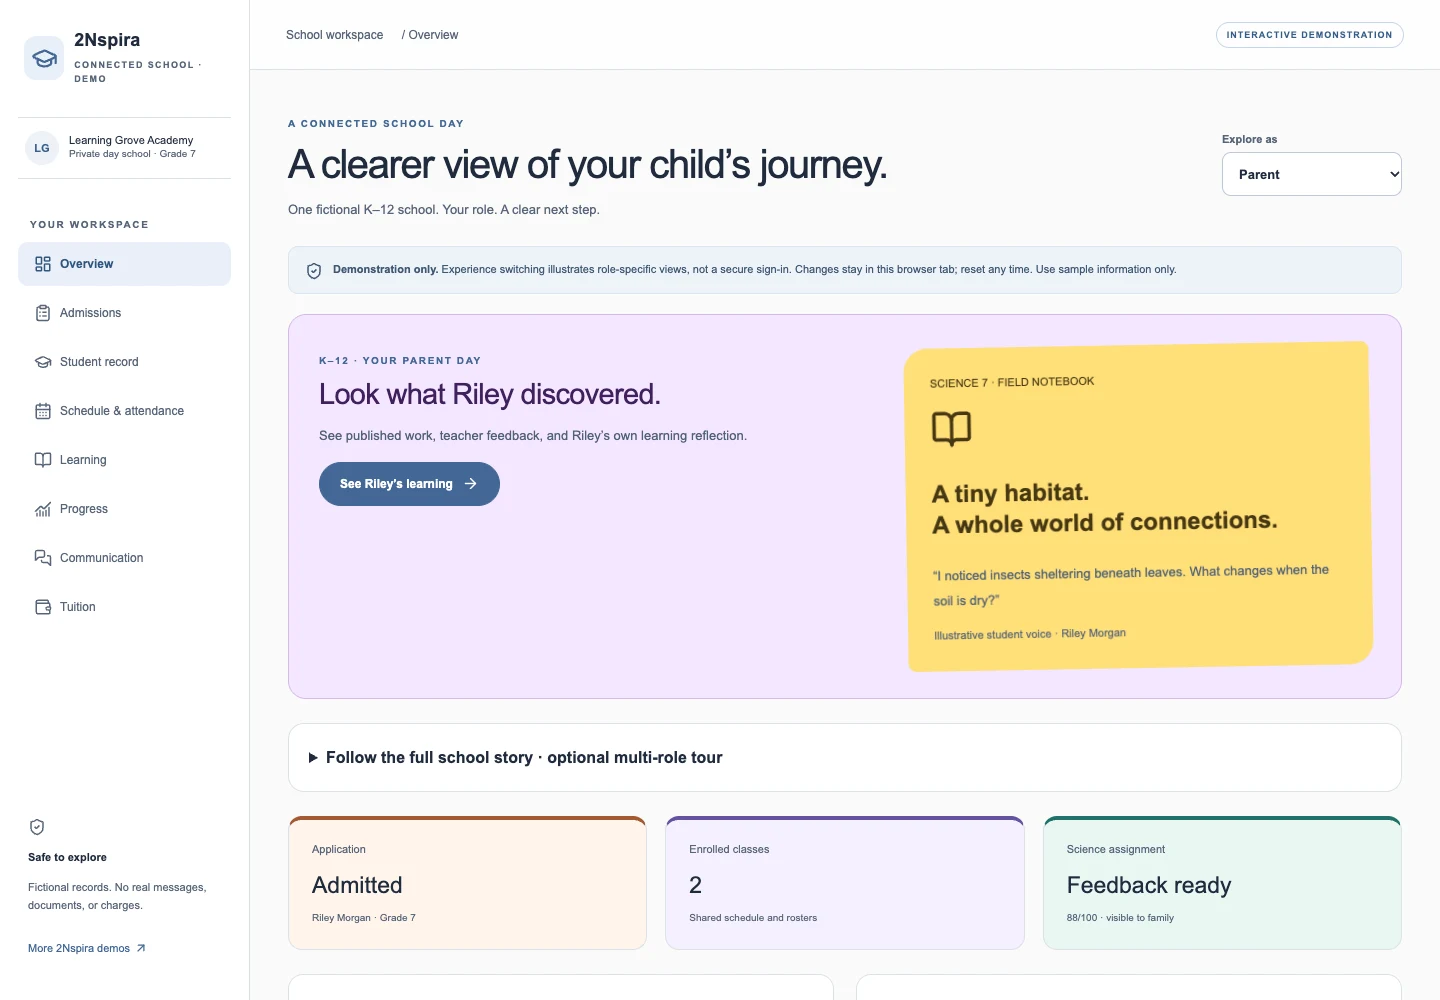
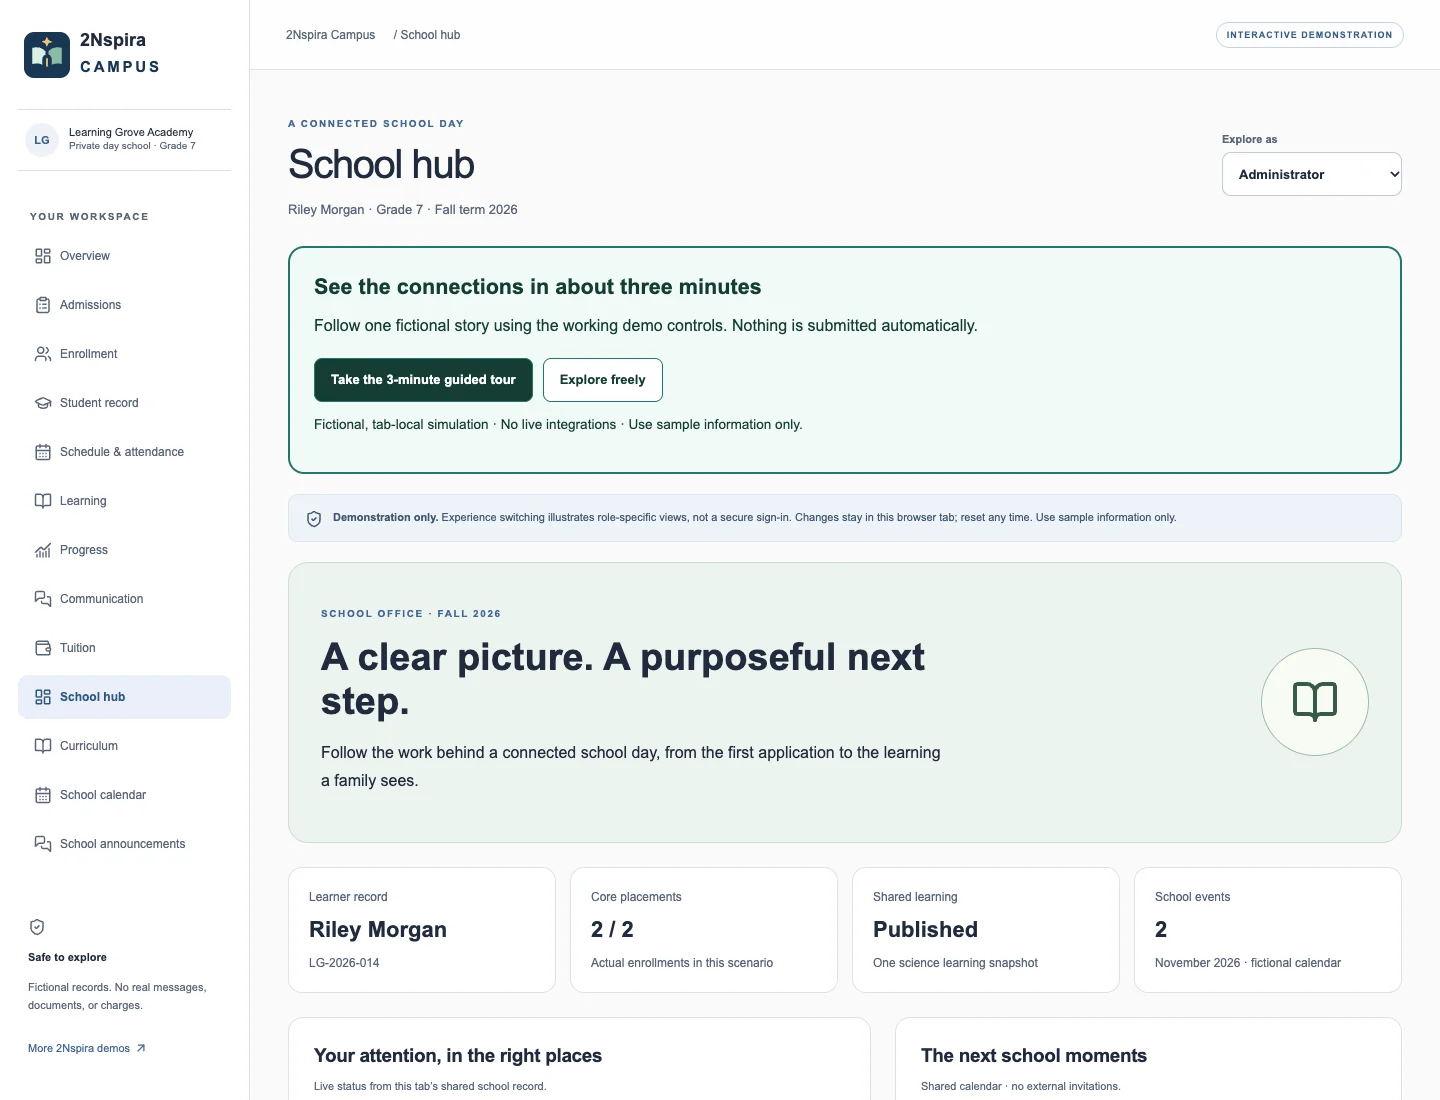
Introduce 2Nspira Campus product identity and connected office showcase

diff --git a/2nspira-website/src/components/demos/SchoolVision.tsx b/2nspira-website/src/components/demos/SchoolVision.tsx
@@ -6,7 +6,7 @@ export default function SchoolVision() {
   return <><section className="border-y border-line bg-[#e7f4ef] py-12 sm:py-14" aria-labelledby="school-vision">
     <div className="mx-auto max-w-6xl px-4 sm:px-6">
       <div className="grid items-center gap-10 lg:grid-cols-2">
-        <div><p className={eyebrow}>2Nspira · Connected school</p><h2 id="school-vision" className={`mt-4 ${h2}`}>More than managing school.<br />Make learning visible.</h2><p className="mt-5 leading-8 text-body">The office knows the learner. The teacher knows the next step. The family understands the progress. Explore a school experience built around those connections—not another collection of disconnected tools.</p><p className="mt-4 text-sm leading-7 text-muted">A focused demonstration for independent K–12 schools, with a broader vision shaped around your curriculum, people, and existing systems.</p><a href={EDUCATION_DEMO_URL} className={`mt-7 ${buttonPrimary}`}>Explore Demo <ArrowRight className="ml-2 h-4 w-4" /></a></div>
+        <div><p className={eyebrow}>2Nspira Campus · Connected school</p><h2 id="school-vision" className={`mt-4 ${h2}`}>More than managing school.<br />Make learning visible.</h2><p className="mt-5 leading-8 text-body">The office knows the learner. The teacher knows the next step. The family understands the progress. Explore a school experience built around those connections—not another collection of disconnected tools.</p><p className="mt-4 text-sm leading-7 text-muted">A focused demonstration for independent K–12 schools, with a broader vision shaped around your curriculum, people, and existing systems.</p><a href={EDUCATION_DEMO_URL} className={`mt-7 ${buttonPrimary}`}>Explore Demo <ArrowRight className="ml-2 h-4 w-4" /></a></div>
         <div data-catalog-card className="rounded-3xl border border-line bg-white p-6 shadow-sm sm:p-8">
           <p className="text-xs font-semibold tracking-widest text-accent">ILLUSTRATIVE LEARNING SNAPSHOT</p><div className="mt-5 flex items-center gap-4"><span className="rounded-2xl bg-accent-soft p-3 text-accent"><Sprout size={28}/></span><div><h3 className="text-xl font-medium text-ink">Small habitats. Big connections.</h3><p className="mt-1 text-sm text-muted">Science 7 · Learning Grove Academy</p></div></div>
           <ol className="mt-7 space-y-0">{[["Plan with purpose", "An inquiry question and clear learning goals."],["Make thinking visible", "Field notes become evidence of learning."],["Close the feedback loop", "Teacher-published feedback reaches the learner and family."]].map(([title,text],i)=><li key={title} className="flex gap-4 border-t border-line py-5"><span className="text-sm font-semibold text-accent">0{i+1}</span><div><h4 className="font-medium text-ink">{title}</h4><p className="mt-1 text-sm leading-6 text-body">{text}</p></div></li>)}</ol><p className="text-xs leading-6 text-muted">Fictional example. The demo connects real local actions; this preview is not live school data.</p>

diff --git a/2nspira-website/src/components/demos/SchoolModules.tsx b/2nspira-website/src/components/demos/SchoolModules.tsx
@@ -6,6 +6,8 @@ const groups = [
     icon: GraduationCap,
     description: "One record from first enquiry to the school day.",
     modules: [
+      ["Administrator school hub", "Follow live scenario priorities, core placements, shared learning, school events, and recent activity.", "Try in demo"],
+      ["School calendar", "Create a November sample event, check same-time conflicts, and confirm removal across all demo views.", "Try in demo"],
       [
         "Registration & admissions",
         "Capture student and guardian details, review sample documents, and track admission.",
@@ -40,8 +42,8 @@ const groups = [
     modules: [
       [
         "Unit & lesson planning",
-        "Browse a three-step inquiry unit, learning intentions, and access strategies.",
-        "Read-only preview",
+        "Edit one Science 7 unit draft, cancel changes, then explicitly publish the plan to learner and family views.",
+        "Try in demo",
       ],
       [
         "Coursework & assignments",
@@ -70,6 +72,7 @@ const groups = [
     icon: Users,
     description: "Make progress easier to understand and act on.",
     modules: [
+      ["School announcements", "Publish all-school, family, or staff updates and verify the matching role’s noticeboard. No notification is sent.", "Try in demo"],
       [
         "Family progress view",
         "Follow a child’s learning evidence and teacher-published feedback.",
@@ -77,7 +80,7 @@ const groups = [
       ],
       [
         "School communication",
-        "Explore announcements and a shared fictional school conversation. Nothing is sent.",
+        "Explore a shared fictional school conversation. No external message is sent.",
         "Try in demo",
       ],
       [
@@ -99,12 +102,15 @@ const groups = [
   },
 ];
 const destinations: Record<string, [string, string]> = {
+  "Administrator school hub": ["Administrator", "School hub"],
+  "School calendar": ["Administrator", "School calendar"],
+  "School announcements": ["Administrator", "School announcements"],
   "Registration & admissions": ["Administrator", "Admissions"],
   "Enrollment & class capacity": ["Administrator", "Enrollment"],
   "Student & guardian records": ["Administrator", "Student record"],
   "Scheduling & attendance": ["Teacher", "Schedule & attendance"],
   "Tuition & payment status": ["Parent", "Tuition"],
-  "Unit & lesson planning": ["Teacher", "Learning"],
+  "Unit & lesson planning": ["Teacher", "Curriculum"],
   "Coursework & assignments": ["Teacher", "Learning"],
   "Assessment & feedback": ["Teacher", "Learning"],
   "Portfolio & student reflection": ["Student", "Learning"],

diff --git a/2nspira-website/src/components/demos/DemoDetail.tsx b/2nspira-website/src/components/demos/DemoDetail.tsx
@@ -18,11 +18,12 @@ export default function DemoDetail({ kind }: { kind: keyof typeof demos }) {
   return (
     <main id="main-content" tabIndex={-1} className={pageMain}>
       <DemoHero
-        category="K–12 school management"
-        title="One learning journey. Everyone connected."
+        category="Connected K–12 school management"
+        brand={{src:"/images/brand/2nspira-campus-logo.svg",alt:"2Nspira Campus — Learning opens possibilities."}}
+        title="Learning opens possibilities."
         text="Give teachers room to teach and families a clearer view. Connect the first application to classroom progress, without losing the learner between systems."
         image="/images/demos/education-workspace.webp"
-        alt="Learning Grove family view showing classroom learning, enrolled classes and published teacher feedback."
+        alt="2Nspira Campus administrator school hub showing fictional learner priorities, curriculum status and school events."
         href={demo.url}
         steps={["Welcome a learner", "Connect the classroom", "Share progress"]}
       />
@@ -43,7 +44,7 @@ export default function DemoDetail({ kind }: { kind: keyof typeof demos }) {
               {[
                 [
                   "Administrator",
-                  "Review, admit, enroll, and follow the record.",
+                  "Review priorities, publish curriculum, and connect the school day.",
                 ],
                 [
                   "Teacher",
@@ -60,14 +61,14 @@ export default function DemoDetail({ kind }: { kind: keyof typeof demos }) {
               ].map(([role, text], i) => (
                 <a
                   data-catalog-card
-                  href={`${demo.url}?role=${role}`}
+                  href={`${demo.url}?role=${role}${role === "Administrator" ? "&section=School%20hub" : ""}`}
                   key={role}
                   className={`${cardFlat} block p-6 focus-visible:outline-2 focus-visible:outline-accent ${["!bg-[#fff0d9]", "!bg-[#e0f4ef]", "!bg-[#efe4fa]", "!bg-[#fff1b8]"][i]}`}
                 >
                   <h3 className="font-semibold text-ink">
                     {
                       {
-                        Administrator: "School office · Review admissions",
+                        Administrator: "School office · Open school hub",
                         Teacher: "Teacher · Open my classroom",
                         Student: "Student · Continue my learning",
                         Parent: "Family · See Riley’s learning",

diff --git a/2nspira-website/src/app/demos/education/page.tsx b/2nspira-website/src/app/demos/education/page.tsx
@@ -2,10 +2,10 @@ import DemoSchema from "@/components/demos/DemoSchema";
 import DemoDetail from "@/components/demos/DemoDetail";
 import { publicPageMetadata } from "@/lib/pageMetadata";
 export const metadata = publicPageMetadata({
-  title: "School Management & Learning Platform Demo",
-  shareTitle: "One learning journey. Everyone connected.",
+  title: "2Nspira Campus — School & Learning Demo",
+  shareTitle: "2Nspira Campus — Learning opens possibilities.",
   description:
-    "Explore a connected K–12 school demo: admissions, attendance, learning plans, assignments, student evidence, and family-visible feedback in one shared journey.",
+    "Explore 2Nspira Campus: connected school-office priorities, curriculum publishing, calendars, announcements, classroom learning, and family-visible feedback.",
   path: "/demos/education",
   image: "/images/demos/education-workspace.webp",
 });
@@ -14,8 +14,8 @@ export default function EducationDemo() {
     <>
       <DemoSchema
         path="/demos/education"
-        title="School Management & Learning Platform Demo"
-        description="Explore admissions, classroom learning and family-visible feedback in a connected school experience."
+        title="2Nspira Campus — School & Learning Demo"
+        description="Explore 2Nspira Campus with connected school-office workflows, curriculum, classroom learning and family-visible feedback."
         image="/images/demos/education-workspace.webp"
       />
       <DemoDetail kind="education" />

diff --git a/2nspira-website/src/lib/demos.ts b/2nspira-website/src/lib/demos.ts
@@ -5,10 +5,10 @@ export const PROPERTY_DEMO_URL = "https://harborstone-property-operations-demo.j
 export const demos = {
   education: {
     category: "Education",
-    title: "School Management & Learning Platform",
-    headline: "A connected school. A visible learning journey.",
+    title: "2Nspira Campus",
+    headline: "Learning opens possibilities.",
     intro:
-      "Bring admissions, school operations, and meaningful learning into one connected experience. Follow a learner from the first application to classroom evidence and family-visible feedback—without entering the same information again.",
+      "2Nspira Campus brings admissions, school operations, and meaningful learning into one connected experience. Follow a learner from the first application to classroom evidence and family-visible feedback—without entering the same information again.",
     audience:
       "For small private K–12 day schools evaluating a connected admissions, student-management, and learning experience. This example follows one Grade 7 learner at a fictional school.",
     challenge:
@@ -36,7 +36,7 @@ export const demos = {
       ],
       [
         "Progress & communication",
-        "See published feedback and attendance, browse sample announcements, and add a simulated school-support message.",
+        "See published feedback and attendance, publish audience-specific announcements, and add a simulated school-support message.",
       ],
       [
         "Illustrative tuition",

diff --git a/2nspira-website/src/components/demos/DemoHero.tsx b/2nspira-website/src/components/demos/DemoHero.tsx
@@ -12,6 +12,7 @@ export default function DemoHero({
   href,
   steps,
   overview = false,
+  brand,
 }: {
   category: string;
   title: string;
@@ -21,6 +22,7 @@ export default function DemoHero({
   href: string;
   steps: string[];
   overview?: boolean;
+  brand?: {src:string;alt:string};
 }) {
   return (
     <section className="demo-hero relative overflow-hidden border-b border-line">
@@ -35,6 +37,7 @@ export default function DemoHero({
         )}
         <div className="grid items-center gap-10 py-6 lg:grid-cols-[0.9fr_1.1fr] lg:gap-12 lg:py-10">
           <div className="demo-arrive min-w-0">
+            {brand && <Image src={brand.src} alt={brand.alt} width={620} height={160} unoptimized className="mb-7 h-auto w-full max-w-[360px]" />}
             <p className={eyebrow}>{category}</p>
             <h1 className={`${h1} max-w-2xl`}>{title}</h1>
             <p className="mt-6 max-w-xl text-lg leading-8 text-body">{text}</p>

diff --git a/2nspira-website/src/components/engagement/DemoCollection.tsx b/2nspira-website/src/components/engagement/DemoCollection.tsx
@@ -10,10 +10,10 @@ const experiences = [
   {
     slug: "education",
     category: "Education",
-    title: "More room for the moments that matter.",
-    text: "From a family’s first application to a teacher’s published feedback. One connected learning journey.",
+    title: "2Nspira Campus",
+    text: "Learning opens possibilities. Connect school-office priorities, curriculum, classroom evidence, and the family’s view in one working demonstration.",
     image: "education-workspace",
-    alt: "Learning Grove school family overview with classroom learning and published feedback.",
+    alt: "2Nspira Campus administrator school hub with fictional school priorities, curriculum status and shared events.",
     url: demos.education.url,
     steps: "Admissions → Classroom → Family",
   },

diff --git a/docs/CAMPUS-IDENTITY-20261118.md b/docs/CAMPUS-IDENTITY-20261118.md
@@ -1,0 +1,34 @@
+# 2Nspira Campus showcase identity — 18 November 2026
+
+Jeffrey selected **2Nspira Campus** and requested an original, meaningful logo.
+The vector book/doorway/path/spark identity and **Learning opens possibilities.**
+line are shared with the education demo repository. Learning Grove Academy
+remains the fictional school. No trademark-registration, security-certification,
+production-readiness, client-result, or feature-parity claim is made.
+
+## Changes
+
+Education metadata/schema, dedicated showcase hero, demos collection title,
+matching vector logo and mark, and an actual screenshot from the newly branded
+administrator hub. Administrator launches now enter School hub; Curriculum,
+School calendar, School announcements and hub module links point to working
+role/section routes. One-unit planning is correctly labeled a working simulation,
+not a read-only preview. Other industry demos and original client systems unchanged.
+
+## Local validation
+
+Clean install; lint passes with only four existing ai-team image warnings;
+canonical build:ci including built-Worker 200 route smoke and unknown-route 404;
+strict TypeScript; npm audit zero findings. Built Worker localhost:3057:
+36 rendered checks across desktop/tablet/mobile covering logo/image loads,
+metadata, four module links and role/section parameters, planning status,
+JSON-LD parsing, no overflow or page errors, and Campus card in /demos.
+Hero screenshots inspected separately; no static HTML-only visual PASS.
+
+## Release ownership
+
+Main marketing Worker deploys through Cloudflare Workers Builds on main, not a
+local production deploy. Preview must be route-less/noindex with no production
+D1 bindings. Record immutable preview head, merged commit, matching production
+marker and rendered customer-entrance checks in the task release record.
+The standalone demo has its own independent deployment owner and marker.
